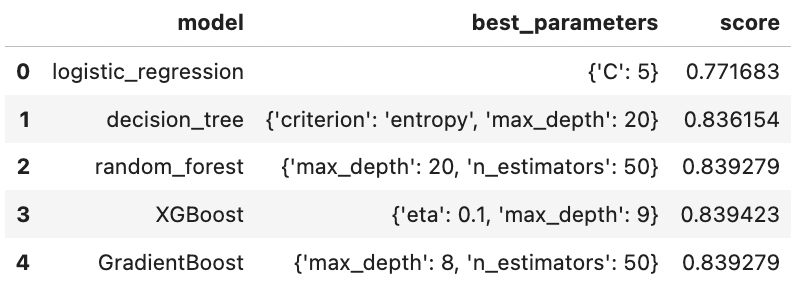
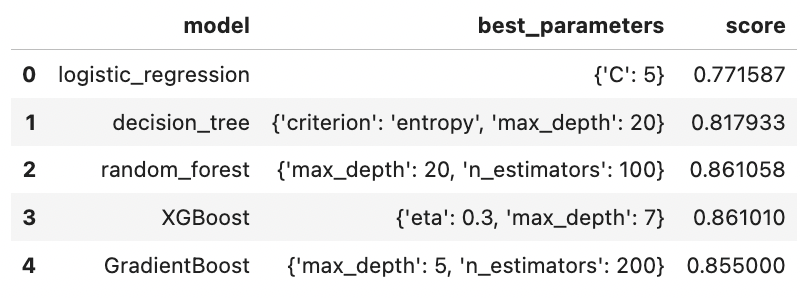
3

diff --git a/<font color=#53AB90>Heart Failure Survival Prediction<-font>.md b/<font color=#53AB90>Heart Failure Survival Prediction<-font>.md
@@ -526,3 +526,8 @@ def find_best_model(X, y):
 find_best_model(X_train, y_train)
 ```
 
+Here is the result.
+
+<div align=center><img width =60% src ="https://github.com/DZBohan/heart_failure_survival_prediction/blob/main/images/model5.png?raw=true"/></div>
+
+However, I faced a challenge in this step. The score of models vary each time using RandomOversampler to replace the minority class of the target. As I said in the section 5.1, Because the sampling process is random, the dataset will change after each oversampling, which will cause some problems that I will explain in detail in later chapters.
